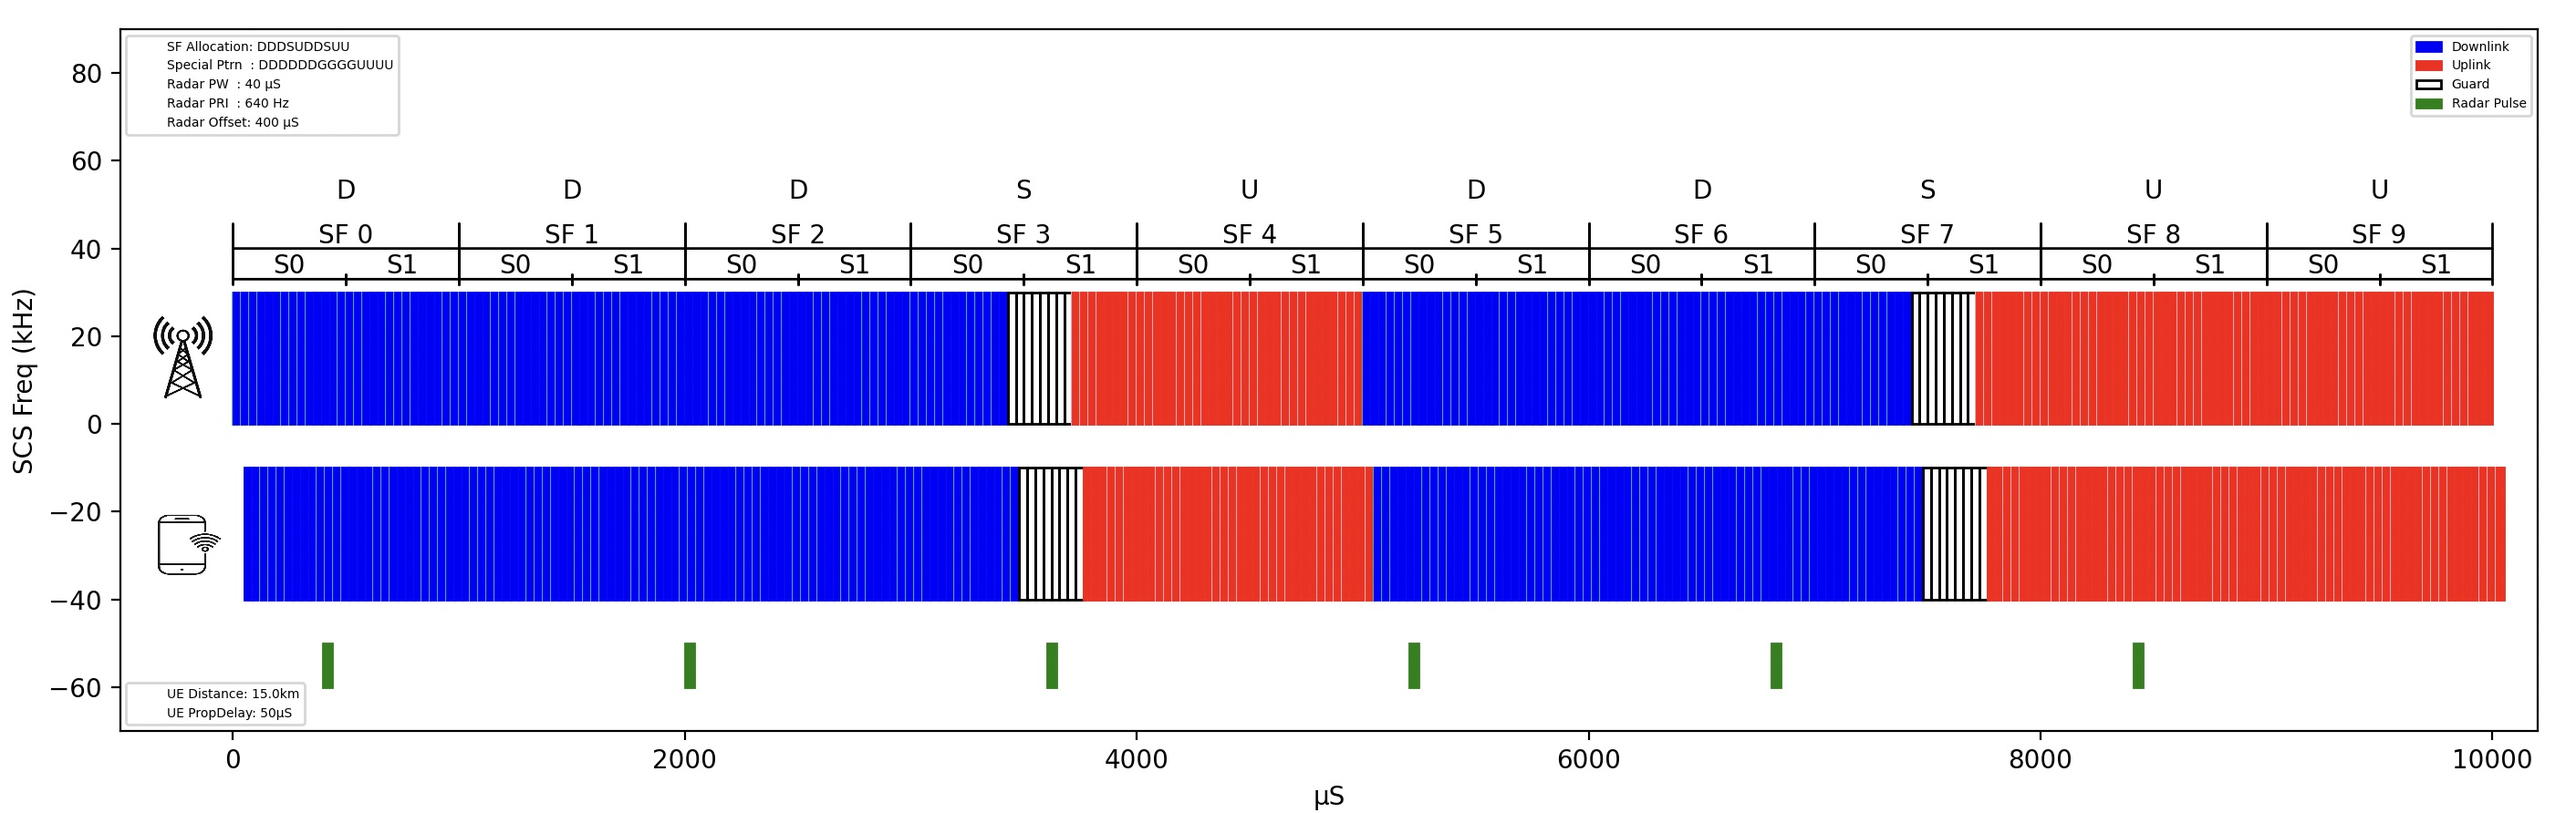
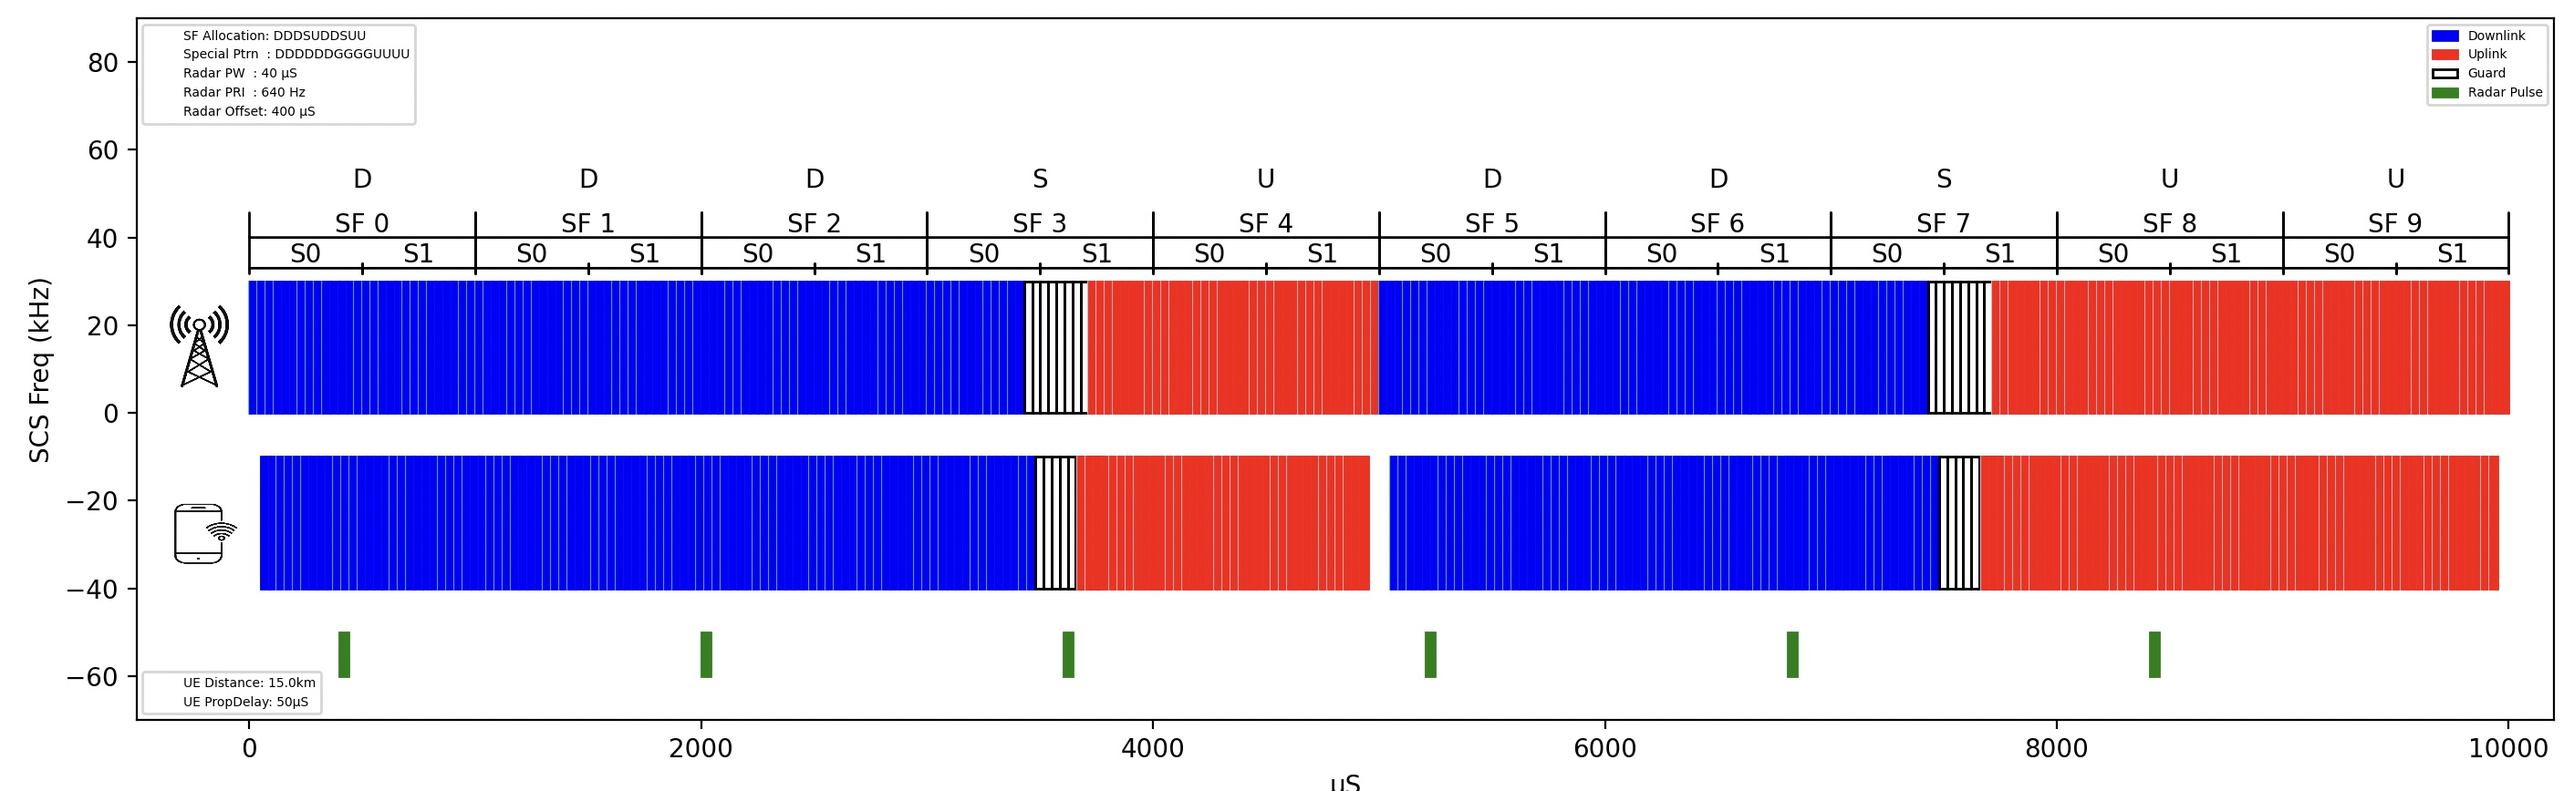
Added TA

diff --git a/5G_TDD_Visualizer.py b/5G_TDD_Visualizer.py
@@ -23,6 +23,7 @@ if len(SpecialSubFramePattern) != 14: print("SpecialSubFramePattern {} ! len=14"
 UeDistance = 15e3 # (m)
 SpeedOfLight = 299792458 # (m/s)
 UePropDelay = 1e6 * UeDistance/(SpeedOfLight) # (us)
+UeTimingAdvance = True
 
 ##Radar
 RadarPW = 40 #uS
@@ -96,7 +97,7 @@ def plot5GSlotAnnotations(ax,startIndex,stopIndex,slotIndexText,slotTypeText):
     ax.annotate(slotTypeText, (startIndex+(stopIndex-startIndex)/2, SCS+20), ha='center', va='bottom')
     return
 
-def plotSlot(ax,slotIndexText,startIndex,stopIndex):
+def plotSlotAnnotations(ax,slotIndexText,startIndex,stopIndex):
     arr = patches.FancyArrowPatch((startIndex, SCS+3), (stopIndex, SCS+3),
                                arrowstyle='|-|', mutation_scale=2,
                                shrinkA=0,shrinkB=0
@@ -105,11 +106,12 @@ def plotSlot(ax,slotIndexText,startIndex,stopIndex):
     ax.annotate(slotIndexText, (startIndex+(stopIndex-startIndex)/2, SCS+3), ha='center', va='bottom')
     return
 
-def plot5GTDD(ax,xaxisOffset,yaxisOffset,bool_plotSlot):
+def plot5GTDD(ax,xaxisOffset,yaxisOffset,bool_plotSlot,bool_ta):
     print("Graphing 5G TDD...")
     slotNum = 0
     printIndex = xaxisOffset
-    for slotType in SubFramePattern:
+    for subFrameIndex in range(len(SubFramePattern)):
+        slotType = SubFramePattern[subFrameIndex]
         SlotStartIndex = printIndex
         print(slotType,slotNum)
         if slotType == 'D':
@@ -117,28 +119,34 @@ def plot5GTDD(ax,xaxisOffset,yaxisOffset,bool_plotSlot):
                 slotStartIndex = printIndex
                 for j in range(symbolsPerSlot): 
                     print(j,printIndex);printIndex = plotSymbol(ax,j,printIndex,yaxisOffset,'c','b')
-                if(bool_plotSlot):plotSlot(ax,"S"+str(i),slotStartIndex,printIndex)
+                if(bool_plotSlot):plotSlotAnnotations(ax,"S"+str(i),slotStartIndex,printIndex)
         if slotType == 'U':
             for i in range((pow(2,numerology))):
                 slotStartIndex = printIndex
                 for j in range(symbolsPerSlot): 
                     print(j,printIndex);printIndex = plotSymbol(ax,j,printIndex,yaxisOffset,'pink','red')
-                if(bool_plotSlot):plotSlot(ax,"S"+str(i),slotStartIndex,printIndex)    
+                if(bool_plotSlot):plotSlotAnnotations(ax,"S"+str(i),slotStartIndex,printIndex)    
+            if bool_ta and subFrameIndex<len(SubFramePattern)-1:
+                print(subFrameIndex,len(SubFramePattern))
+                if (SubFramePattern[subFrameIndex+1] != 'U'): printIndex += 2*UePropDelay
         if slotType == 'S':
             j = 0
             slotStartIndex = printIndex
             slotCnt = 0
+            appliedTA = False
             for symbol in SpecialSubFramePattern:
                 print(j,printIndex)
                 if symbol == 'D': cpColor = 'c';syColor = 'b'
-                if symbol == 'U': cpColor = 'pink'; syColor = 'r'
+                if symbol == 'U': 
+                    if bool_ta and not appliedTA: printIndex -= 2*UePropDelay; appliedTA = True
+                    cpColor = 'pink'; syColor = 'r' 
                 if symbol == 'G': cpColor = 'w'; syColor = 'w'
                 for s in range((pow(2,numerology))): 
                     if symbol!= 'G' : printIndex = plotSymbol(ax,j,printIndex,yaxisOffset,cpColor,syColor)
                     else: printIndex = plotGuardSymbol(ax,j,printIndex,yaxisOffset,cpColor,syColor)
                     slotCnt += 1
                     if slotCnt%symbolsPerSlot == 0: 
-                        if(bool_plotSlot):plotSlot(ax,"S"+str(int((slotCnt-symbolsPerSlot)/symbolsPerSlot)),slotStartIndex,printIndex);
+                        if(bool_plotSlot):plotSlotAnnotations(ax,"S"+str(int((slotCnt-symbolsPerSlot)/symbolsPerSlot)),slotStartIndex,printIndex);
                         slotStartIndex = printIndex  
                 j += 1
             # plotSlot(ax,"S"+str(j),slotStartIndex,printIndex)
@@ -197,8 +205,8 @@ def main(args):
     ax.set_ylim(-70,pow(2,numerology)*15+60) 
     plt.ylabel("SCS Freq (kHz)")
     plt.xlabel(chr(956)+"S")
-    plot5GTDD(ax,0,0,True)
-    plot5GTDD(ax,UePropDelay,- (15*pow(2,numerology) + 10),False)
+    plot5GTDD(ax,0,0,True,False)
+    plot5GTDD(ax,UePropDelay,- (15*pow(2,numerology) + 10),False,True)
     plotPulseRadar(ax,-60,10,'g')
     plotPictures(ax,'Tower.jpg',-400,-50,5,25)
     plotPictures(ax,'Ue.jpg',-350,-50,-35,-20)
